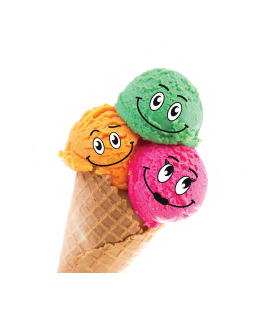
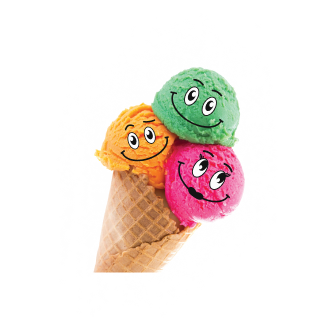
hero update

Changed region(s): [[0.2029, 0.184, 0.7826, 0.8589]]

diff --git a/src/sass/layout/_hero.scss b/src/sass/layout/_hero.scss
@@ -5,14 +5,16 @@
 .hero__container {
     display: flex;
     flex-direction: column;
-    min-height: 504px;
+    // height: 504px;
+    position: relative;
 }
 .hero__content-wraper {
-    // padding: 49px 0 239px 0;
+    padding: 49px 0 20px;
 }
 .container {
 }
 .hero__title {
+    margin-bottom: 32px;
 }
 .title {
 }
@@ -26,10 +28,12 @@
 }
 .hero__img-wraper {
     flex-grow: 1;
-    position: relative;
+    height: 329px;
     max-width: 480px;
-    // height: 100%;
-    // padding-top: 230px;
+
+    @include miniMobile {
+        height: 68.44vw;
+    }
 }
 .hero__img-dots {
     position: absolute;
@@ -40,18 +44,14 @@
 
     // margin: 0 auto;
     position: absolute;
-    left: 56%;
-    bottom: 20px;
+    left: 50%;
+    bottom: -80px;
+    transform: translate(-50%, 0%);
+    width: 480px;
+    pointer-events: none;
     @include miniMobile {
     bottom: -16vw;
-    }
-    transform: translate(-50%, 0%);
-    height: auto;
-    // right: 0;
-    // left: 27px;
-
-    @include miniMobile {
-        // width: 86.25vw;
+    width: 100vw;
     }
 }
 .hero__img-plate {

diff --git a/src/partials/hero.html b/src/partials/hero.html
@@ -23,8 +23,8 @@
             </picture>
             <picture>
                 <source srcset="
-                ./images/iceCreamPC.png 1x,
-                ./images/iceCreamPC@2x.png 2x"
+                ./images/iceCream.png 1x,
+                ./images/iceCream@2x.png 2x"
                 media="(max-width: 767px)">
                 <source srcset="
                 ./images/iceCreamT.png 1x,
@@ -34,7 +34,7 @@
                 ./images/iceCreamPC.png 1x,
                 ./images/iceCreamPC@2x.png 2x"
                 media="(min-width: 1200px)">
-                <img class="hero__img-iceCream" src="./images/iceCreamPC.png" alt="ice cream" >
+                <img class="hero__img-iceCream" src="./images/iceCream.png" alt="ice cream" >
             </picture>
             <picture>
                 <source srcset="

diff --git a/src/partials/products.html b/src/partials/products.html
@@ -1,4 +1,4 @@
-<section class="section products">
+<section class="section products" id="products">
   <div class="container">
     <p class="products__pre-title">100% natural</p>
     <h2 class="products__title title">products</h2>
